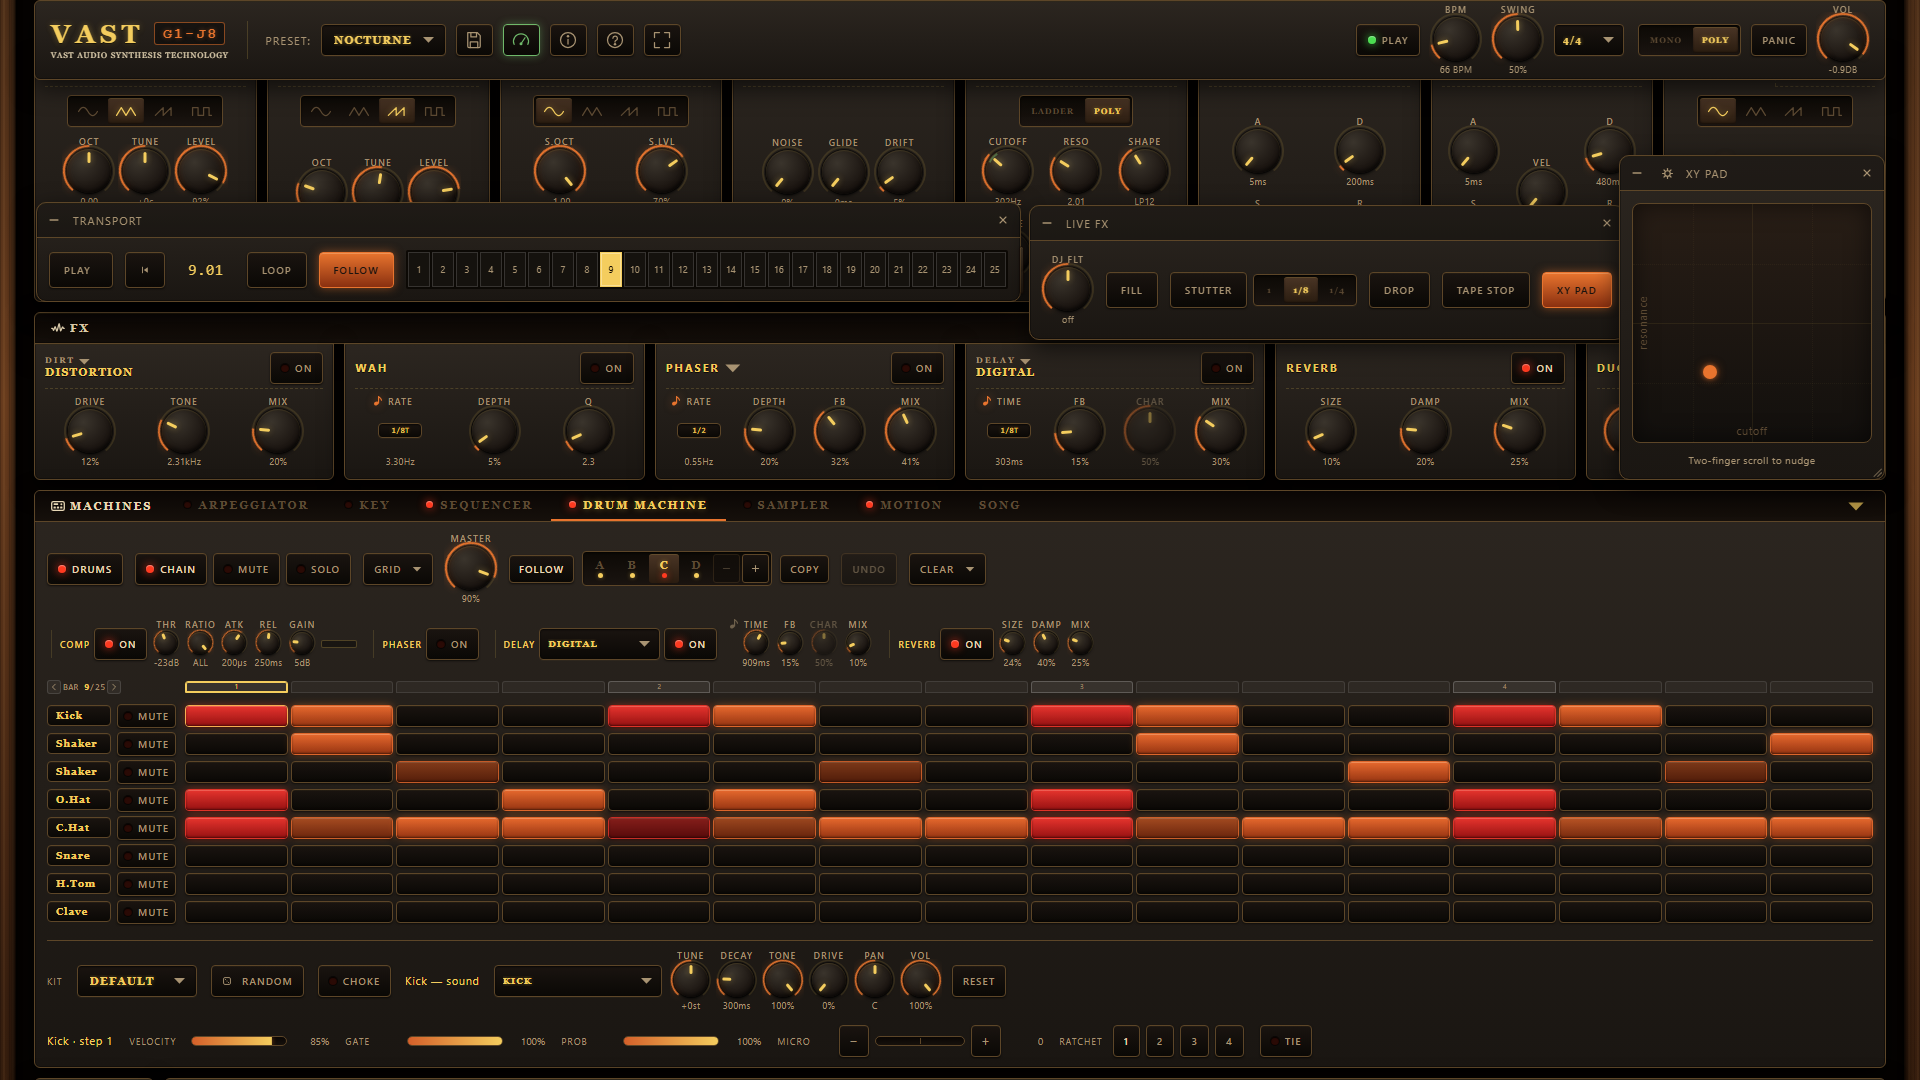
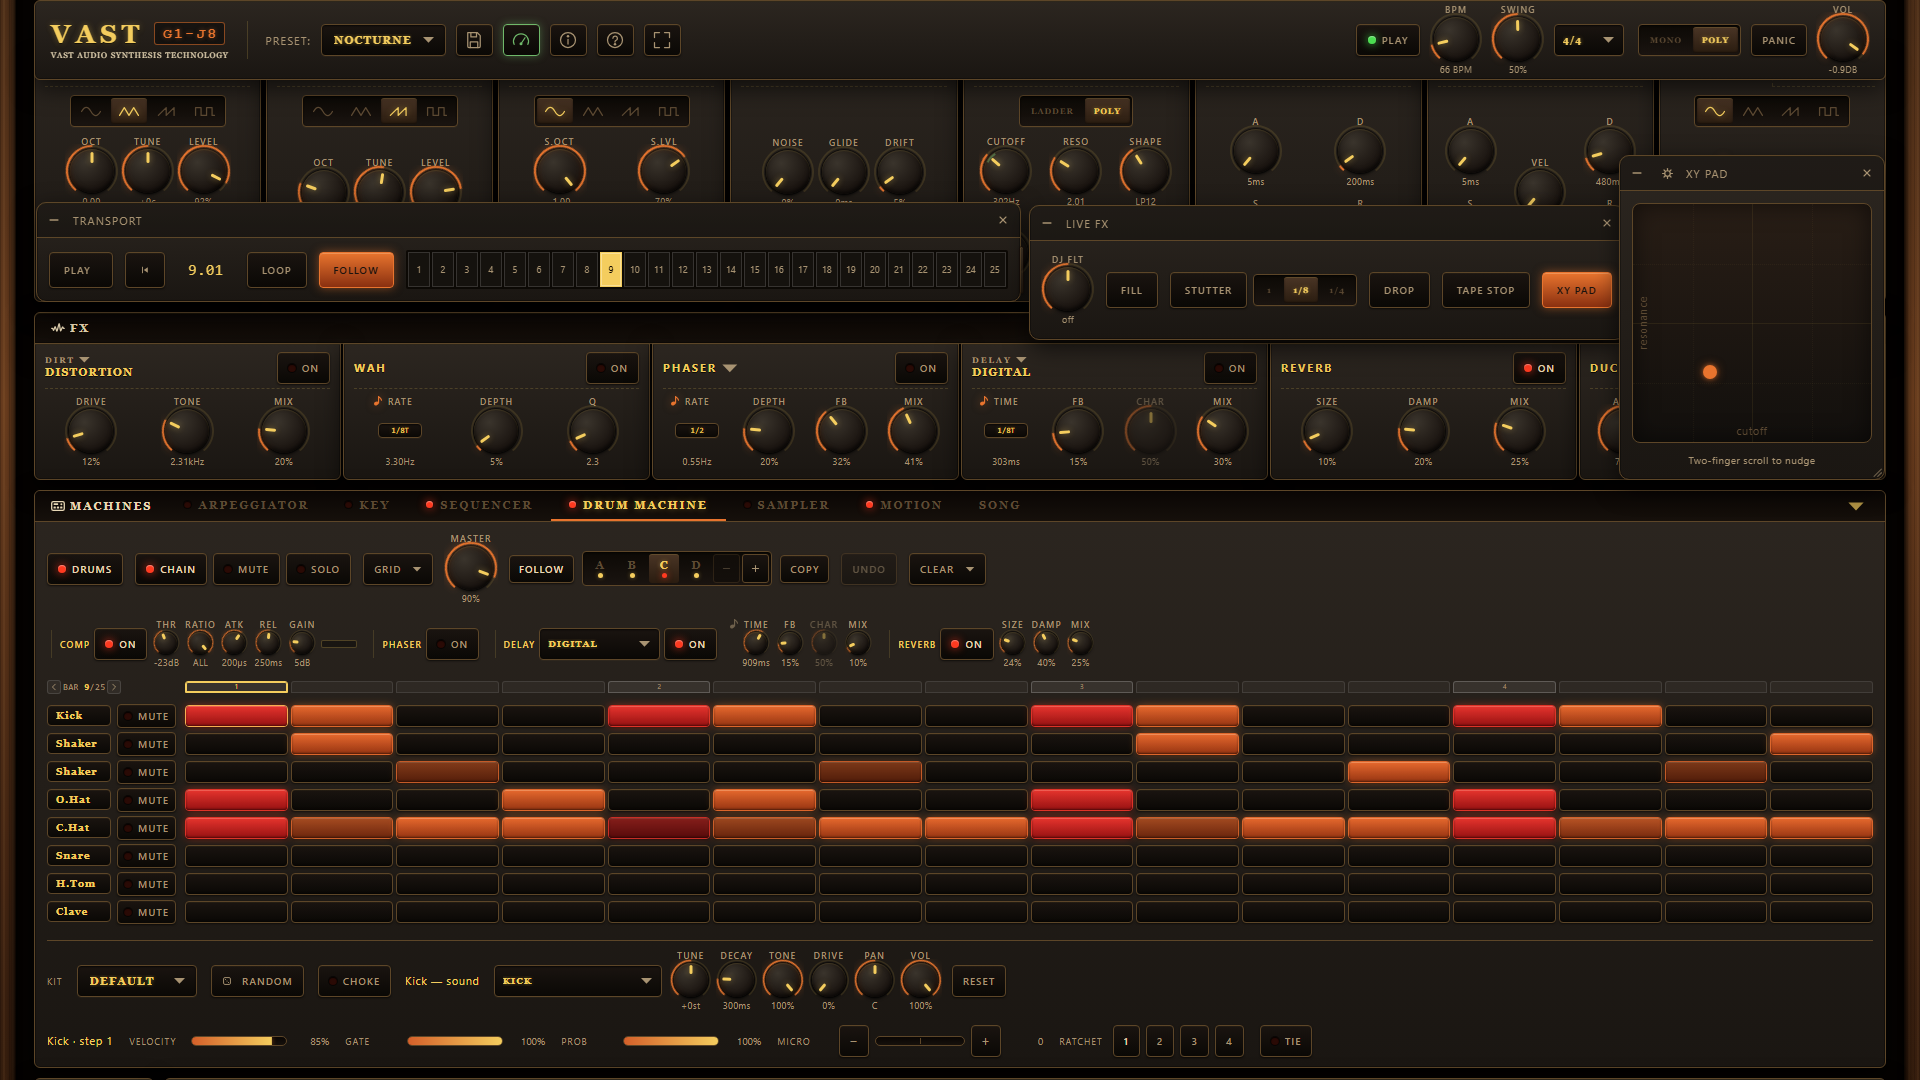
[DOCS] README screenshots retaken for the tighter panel grids, plus a new EQ + full-height scope shot (readme-screenshots.mjs takes it as a fourth shot and waits for a chord in both playing shots)

diff --git a/README.md b/README.md
@@ -35,6 +35,12 @@ Vanilla TypeScript + Vite, zero runtime dependencies.
   </a>
 </p>
 
+<p align="center">
+  <a href="https://vast.status201.com/">
+    <img src="public/vast-websynth-eq-scope.png" alt="VAST G1-J8 — free in-browser synthesizer, sequencer, drum machine and sampler" width="960">
+  </a>
+</p>
+
 ## Features
 
 - **8-voice polyphony** with mono/poly switching and glide
